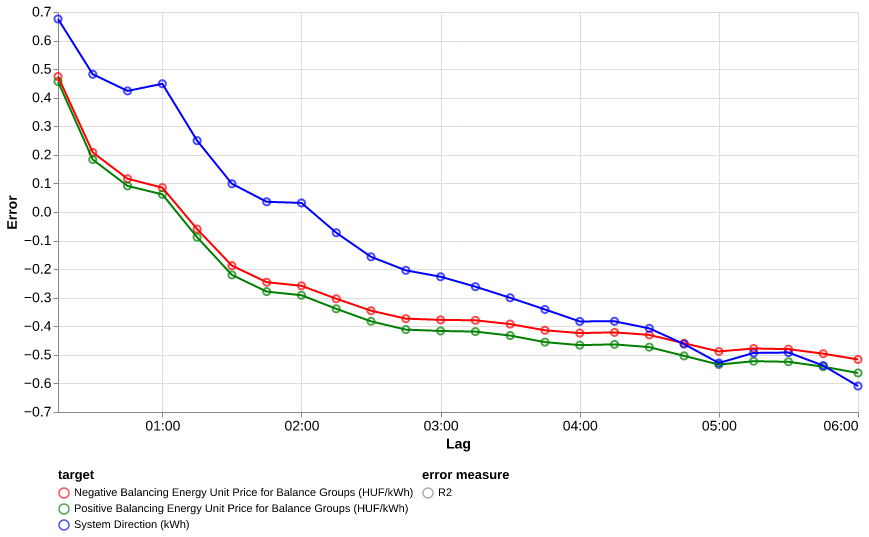
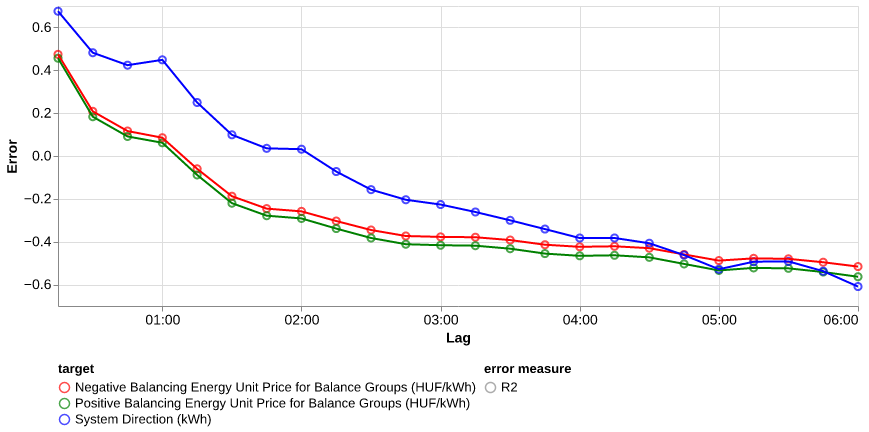
increased legend fontsize

diff --git a/naive_model.py b/naive_model.py
@@ -19,9 +19,9 @@ def lag_chart(df, colors=["red", "green"], width=800, height=400):
         x=alt.X("lag:T", axis=alt.Axis(title="Lag", labelAngle=0, labelFontSize=14, titleFontSize=14, tickCount=4, format="%H:%M")),
         y=alt.Y("error:Q", axis=alt.Axis(title="Error", labelFontSize=14, titleFontSize=14)),
         color=alt.Color("target", scale=alt.Scale(range=colors)).legend(
-            orient="bottom", direction="vertical", labelFontSize=11, titleFontSize=13, labelLimit=400
+            orient="bottom", direction="vertical", labelFontSize=13, titleFontSize=13, labelLimit=600
         ),
-        strokeDash=alt.StrokeDash("error measure").legend(orient="bottom", labelFontSize=11, titleFontSize=13),
+        strokeDash=alt.StrokeDash("error measure").legend(orient="bottom", labelFontSize=13, titleFontSize=13),
     )
 
     # Line chart
@@ -31,7 +31,7 @@ def lag_chart(df, colors=["red", "green"], width=800, height=400):
     points = base.mark_point(size=50, filled=False)
 
     # Combine
-    return (points + line).properties(width=800, height=400)
+    return (points + line).properties(width=800, height=300)
 
 
 joined_df = pl.read_parquet("data/joined_df.parquet")
